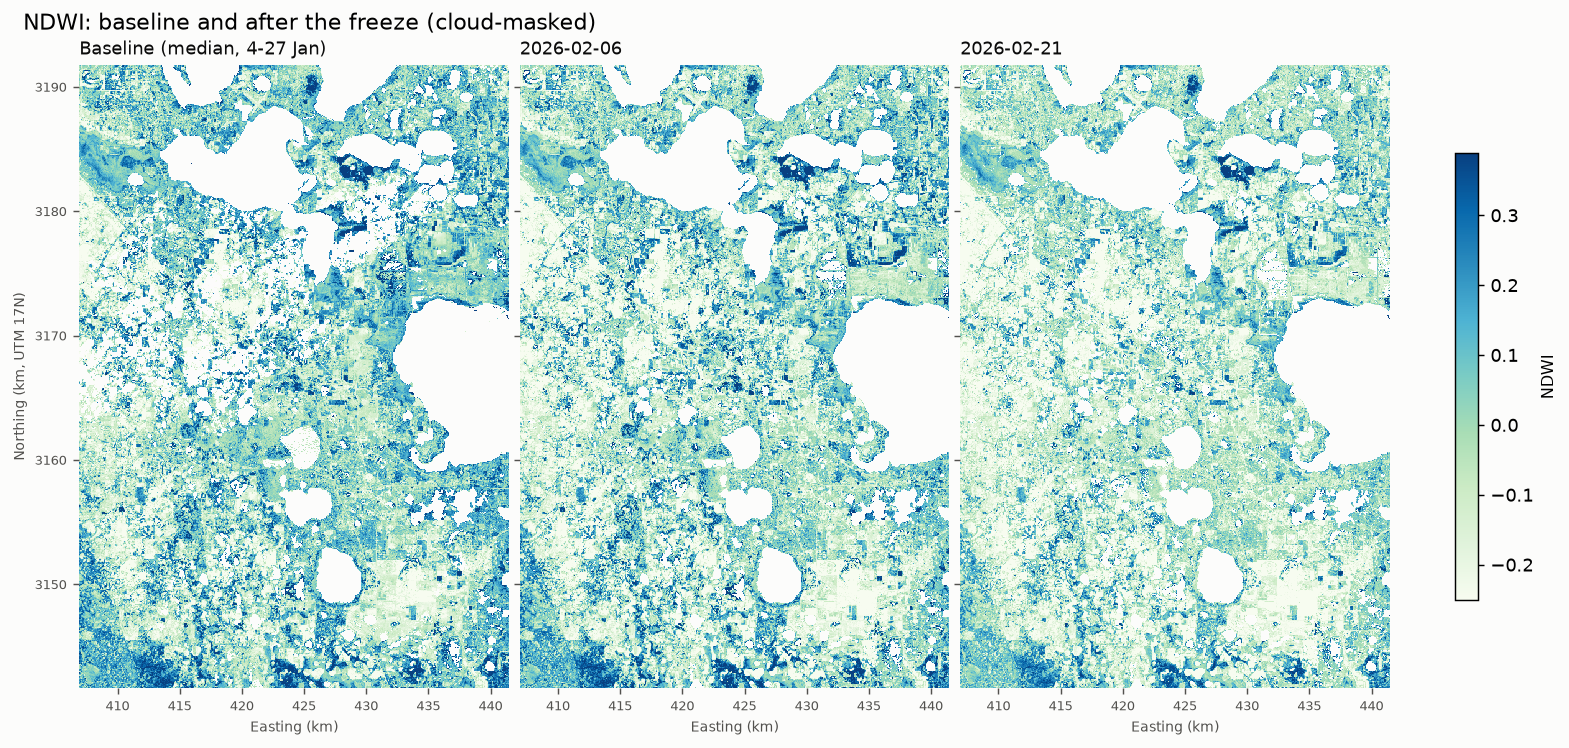
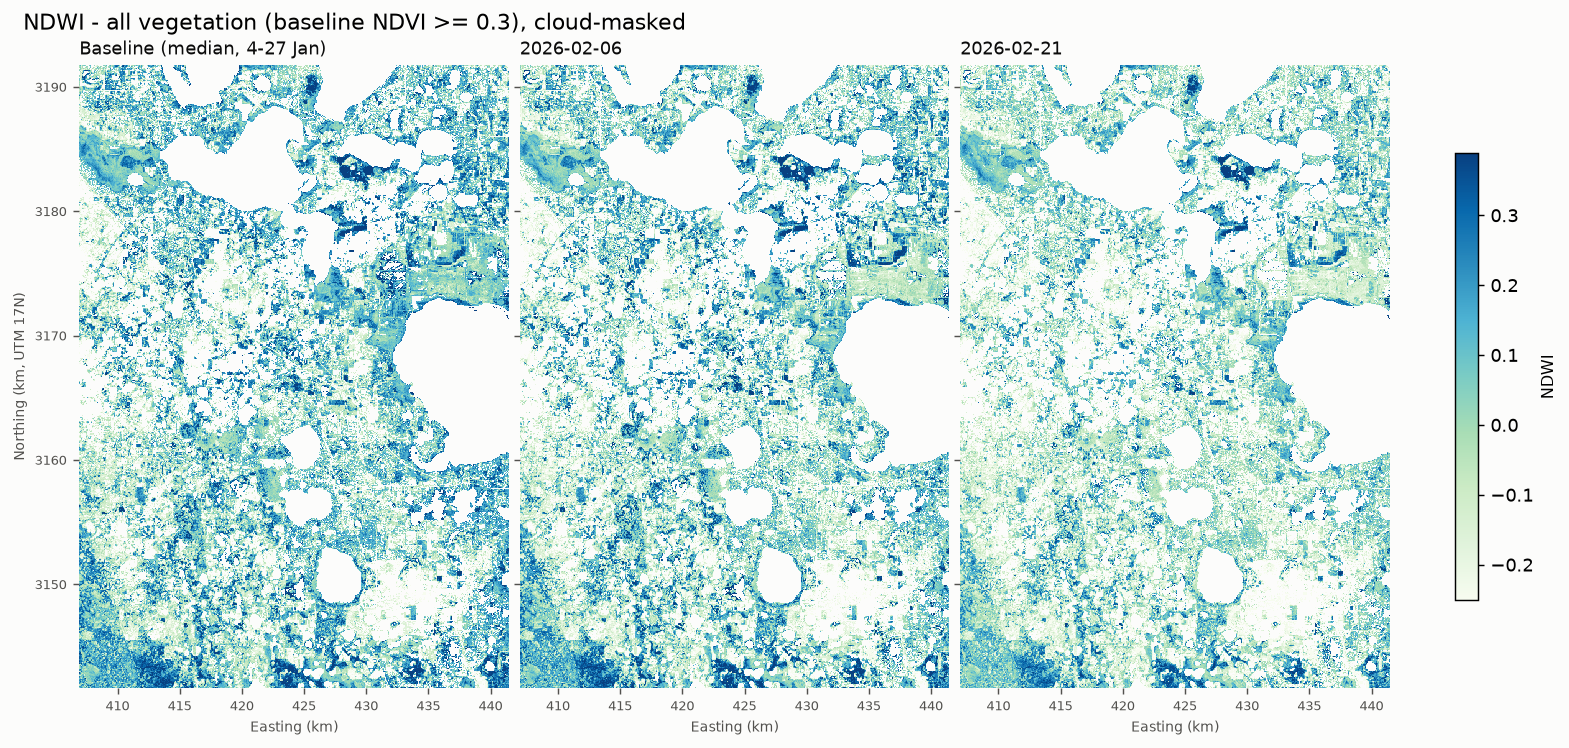
Label figures as citrus only or all vegetation; add citrus location and main-area damage maps
- citrus_location.png: CDL citrus outlined in black on the 6 Feb true-colour image,
  whole area and the main citrus area
- damage_citrus_main_area.png: citrus-only NDVI damage classes in the main citrus
  area on both dates, kill zones outlined
- Index maps now show vegetated pixels only, matching the change maps
- Figure titles and README captions say citrus only / all vegetation

diff --git a/src/plots.py b/src/plots.py
@@ -15,6 +15,10 @@ import pandas as pd  # noqa: E402
 from matplotlib.colors import ListedColormap  # noqa: E402
 from matplotlib.patches import Patch  # noqa: E402
 from matplotlib.lines import Line2D  # noqa: E402
+import geopandas as gpd  # noqa: E402
+from rasterio.features import shapes  # noqa: E402
+from scipy import ndimage  # noqa: E402
+from shapely.geometry import shape  # noqa: E402
 
 from src.damage import NODATA  # noqa: E402
 
@@ -86,7 +90,7 @@ def timeseries(ts, cfg, folder):
     leg.legend(handles=handles, loc="center left", frameon=False, fontsize=9)
     for ax in axes[len(names) + 1:]:
         ax.axis("off")
-    fig.suptitle("Median index value per clear date (vegetated pixels)", x=0.01, ha="left",
+    fig.suptitle("Median index value per clear date - citrus vs all other vegetation", x=0.01, ha="left",
                  fontsize=12, color=c["text"])
     fig.tight_layout()
     return _save(fig, folder, "timeseries_indices", cfg)
@@ -102,7 +106,8 @@ def index_maps(name, panels, vmin, vmax, cfg, folder):
                        interpolation="nearest")
     cb = fig.colorbar(im, ax=axes, shrink=0.7)
     cb.set_label(name, fontsize=9)
-    fig.suptitle(f"{name}: baseline and after the freeze (cloud-masked)", x=0.01, ha="left", fontsize=12)
+    fig.suptitle(f"{name} - all vegetation (baseline NDVI >= 0.3), cloud-masked", x=0.01, ha="left",
+                 fontsize=12)
     return _save(fig, folder, f"map_{name.lower()}", cfg)
 
 
@@ -114,7 +119,8 @@ def change_maps(name, panels, lim, cfg, folder):
         im = ax.imshow(arr, extent=ext, cmap="RdBu", vmin=-lim, vmax=lim, interpolation="nearest")
     cb = fig.colorbar(im, ax=axes, shrink=0.7)
     cb.set_label(f"{name} change", fontsize=9)
-    fig.suptitle(f"{name} change vs baseline (vegetated pixels)", x=0.01, ha="left", fontsize=12)
+    fig.suptitle(f"{name} change vs baseline - all vegetation (red = decrease)", x=0.01, ha="left",
+                 fontsize=12)
     return _save(fig, folder, f"change_{name.lower()}", cfg)
 
 
@@ -172,5 +178,99 @@ def damage_map(damages, citrus, land, ids, kz, cfg, folder):
               [Patch(facecolor="none", edgecolor=c["kill_zone"], lw=1.5, label="kill zone"),
                Patch(color=c["land"], label="other land")]
     fig.legend(handles=handles, loc="lower center", ncol=6, frameon=False, fontsize=9)
+    fig.suptitle("NDVI damage classes - citrus only (whole area, and close-up of the largest kill zone)",
+                 x=0.01, ha="left", fontsize=12, color=c["text"])
     fig.subplots_adjust(bottom=0.12, wspace=0.15)
     return _save(fig, folder, "damage_ndvi_killzones", cfg)
+
+
+# ---------- where the citrus is, and citrus damage in the main citrus area ----------
+def main_citrus_window(citrus, cfg):
+    """Square window (zoom_citrus_km wide) centred where citrus is densest. Returns .sel() slices."""
+    res = cfg["run"]["res"]
+    size = max(1, int(cfg["plots"]["zoom_citrus_km"] * 1000 / res))
+    density = ndimage.uniform_filter(citrus.values.astype("float32"), size=size, mode="constant")
+    iy, ix = np.unravel_index(np.argmax(density), density.shape)
+    cx, cy, half = float(citrus.x[ix]), float(citrus.y[iy]), size * res / 2
+    return dict(x=slice(cx - half, cx + half), y=slice(cy + half, cy - half))
+
+
+def _outlines(mask, cfg):
+    """Outlines of a boolean raster (e.g. the citrus mask) as polygons in km."""
+    v = mask.values.astype("uint8")
+    geoms = [shape(g) for g, _ in shapes(v, mask=v > 0, transform=mask.odc.geobox.affine)]
+    g = gpd.GeoSeries(geoms, crs=cfg["run"]["crs"])
+    return g.scale(1e-3, 1e-3, origin=(0, 0))                    # m -> km
+
+
+def _rgb(bands, cfg):
+    """True-colour RGB array (contrast-stretched), NaN shown as white."""
+    rgb = np.dstack([bands[b] for b in ("red", "green", "blue")])
+    lo, hi = np.nanpercentile(rgb, cfg["plots"]["rgb_stretch"])
+    return np.nan_to_num(np.clip((rgb - lo) / (hi - lo), 0, 1), nan=1.0)
+
+
+def citrus_location(rgb_bands, citrus, win, cfg, folder):
+    """True-colour image with the CDL citrus mask outlined in black: whole area and main citrus area."""
+    c = cfg["plots"]["colors"]
+    fig, axes = plt.subplots(1, 2, figsize=(12, 6.6), facecolor=c["surface"],
+                             gridspec_kw={"width_ratios": [1, 1.25]})
+    # whole area (downsampled)
+    small = {b: thumb(da, cfg)[0] for b, da in rgb_bands.items()}
+    ext = thumb(rgb_bands["red"], cfg)[1]
+    _style(axes[0], cfg, "Whole study area")
+    axes[0].imshow(_rgb(small, cfg), extent=ext, interpolation="nearest")
+    _outlines(citrus, cfg).boundary.plot(ax=axes[0], color=c["citrus_outline"], lw=0.4)
+    x0, x1, y0, y1 = (win["x"].start / 1e3, win["x"].stop / 1e3, win["y"].stop / 1e3, win["y"].start / 1e3)
+    axes[0].plot([x0, x1, x1, x0, x0], [y0, y0, y1, y1, y0], color=c["zoom_box"], lw=1.5)
+    axes[0].set_xlim(ext[0], ext[1])
+    axes[0].set_ylim(ext[2], ext[3])
+    # main citrus area (full resolution)
+    part = {b: da.sel(**win) for b, da in rgb_bands.items()}
+    ext2 = thumb(part["red"], cfg)[1]
+    _style(axes[1], cfg, "Main citrus area (box on the left)")
+    axes[1].imshow(_rgb({b: thumb(da, cfg)[0] for b, da in part.items()}, cfg), extent=ext2,
+                   interpolation="nearest")
+    _outlines(citrus.sel(**win), cfg).boundary.plot(ax=axes[1], color=c["citrus_outline"], lw=0.8)
+    axes[1].set_xlim(ext2[0], ext2[1])
+    axes[1].set_ylim(ext2[2], ext2[3])
+    for ax in axes:
+        ax.set_xlabel("Easting (km, UTM 17N)", fontsize=8, color=c["muted"])
+        ax.set_ylabel("Northing (km)", fontsize=8, color=c["muted"])
+    handles = [Patch(facecolor="none", edgecolor=c["citrus_outline"], lw=1.2, label="citrus (USDA CDL 2025)"),
+               Patch(facecolor="none", edgecolor=c["zoom_box"], lw=1.5, label="main citrus area")]
+    fig.legend(handles=handles, loc="lower center", ncol=2, frameon=False, fontsize=9)
+    fig.suptitle(f"Where the citrus is - true colour, {cfg['plots']['rgb_date']}", x=0.01, ha="left",
+                 fontsize=12, color=c["text"])
+    fig.subplots_adjust(bottom=0.1, wspace=0.18)
+    return _save(fig, folder, "citrus_location", cfg)
+
+
+def damage_citrus_zoom(damages, citrus, land, kz, win, cfg, folder):
+    """Citrus-only damage classes in the main citrus area, both dates, kill zones outlined."""
+    c = cfg["plots"]["colors"]
+    fig, axes = plt.subplots(1, 2, figsize=(12, 6.4), sharey=True, facecolor=c["surface"])
+    for ax, (date, dmg) in zip(axes, damages.items()):
+        d = dmg.sel(**win)
+        codes, cmap = _damage_rgb(d.values, citrus.sel(**win).values, land.sel(**win).values, cfg)
+        arr, ext = thumb(d.copy(data=codes), cfg)
+        _style(ax, cfg, date)
+        ax.imshow(arr, extent=ext, cmap=cmap, vmin=-0.5, vmax=5.5, interpolation="nearest")
+        if len(kz):
+            g = kz.copy()
+            g["geometry"] = g.geometry.scale(1e-3, 1e-3, origin=(0, 0))
+            g.boundary.plot(ax=ax, color=c["kill_zone"], lw=0.8)
+        ax.set_xlim(ext[0], ext[1])
+        ax.set_ylim(ext[2], ext[3])
+        ax.set_xlabel("Easting (km, UTM 17N)", fontsize=8, color=c["muted"])
+        ax.set_ylabel("")
+    axes[0].set_ylabel("Northing (km)", fontsize=8, color=c["muted"])
+    handles = [Patch(color=c["citrus_ok"], label="citrus, no damage")] + \
+              [Patch(color=col, label=lab) for col, lab in zip(c["damage"], ["mild", "moderate", "severe"])] + \
+              [Patch(facecolor="none", edgecolor=c["kill_zone"], lw=1.5, label="kill zone"),
+               Patch(color=c["land"], label="not citrus / not assessed")]
+    fig.legend(handles=handles, loc="lower center", ncol=6, frameon=False, fontsize=9)
+    fig.suptitle("NDVI damage classes - citrus only, main citrus area", x=0.01, ha="left",
+                 fontsize=12, color=c["text"])
+    fig.subplots_adjust(bottom=0.12, wspace=0.08)
+    return _save(fig, folder, "damage_citrus_main_area", cfg)

diff --git a/run.py b/run.py
@@ -96,13 +96,13 @@ def main(config="config.yaml", test=False):
                # robust SD (1.4826 x median absolute deviation): not inflated by the few extreme
                # pixels that ratio indices such as EVI and MCARI produce
                "noise_sd": round(1.4826 * float(np.median(np.abs(noise - np.median(noise)))), 4)}
-        maps, changes = {"Baseline (median, 4-27 Jan)": plots.thumb(base, cfg)}, {}
+        maps, changes = {"Baseline (median, 4-27 Jan)": plots.thumb(base.where(veg), cfg)}, {}
         for date in (early, late):
             val = index_on(date, name)
             ch = (val - base).where(veg)
             v = ch.values[groups["citrus"]]
             row[f"median_change_{date}"] = round(float(np.nanmedian(v)), 3)
-            maps[date] = plots.thumb(val, cfg)
+            maps[date] = plots.thumb(val.where(veg), cfg)
             changes[date] = plots.thumb(ch, cfg)
             if name == "NDVI":
                 ndvi_change[date] = ch
@@ -145,7 +145,14 @@ def main(config="config.yaml", test=False):
     plots.damage_map(damages, citrus, land, ids, kz, cfg, r["figures"])
     print(head.to_string(index=False))
 
-    step("7. GeoTIFFs")
+    step("7. Citrus location and citrus-only damage in the main citrus area")
+    win = plots.main_citrus_window(citrus, cfg)
+    rgb, _ = data.load_date(cfg, cfg["plots"]["rgb_date"], ["red", "green", "blue"], mask=False)
+    plots.citrus_location(rgb, citrus, win, cfg, r["figures"])
+    plots.damage_citrus_zoom(damages, citrus, land, kz, win, cfg, r["figures"])
+    del rgb
+
+    step("8. GeoTIFFs")
     save_tif(base_ndvi, r["out"] / "rasters" / "ndvi_baseline.tif")
     save_tif(base_count, r["out"] / "rasters" / "baseline_clear_dates.tif")
     for x in (early, late):

diff --git a/src/data.py b/src/data.py
@@ -106,8 +106,9 @@ def boa_offset(red, scl, cfg):
     return s2["boa_offset"] if below < s2["offset_check_max_below"] else 0
 
 
-def load_date(cfg, date, bands):
-    """Reflectance (float32) of `bands` for one date, NaN where the pixel is not clear.
+def load_date(cfg, date, bands, mask=True):
+    """Reflectance (float32) of `bands` for one date, NaN where the pixel is not clear
+    (mask=False keeps every pixel, e.g. for a true-colour picture).
 
     Clear = SCL vegetation or bare soil, and valid red + nir.
     Also returns the share of pixels with data that are clear.
@@ -120,4 +121,4 @@ def load_date(cfg, date, bands):
             for b in dn if b != "scl"}
     clear = dn["scl"].isin(s2["clear_scl_classes"]) & ((refl["nir"] + refl["red"]) > 0)
     clear_pct = 100 * float(clear.sum()) / max(int((dn["scl"] > 0).sum()), 1)
-    return {b: refl[b].where(clear) for b in bands}, clear_pct
+    return {b: refl[b].where(clear) if mask else refl[b] for b in bands}, clear_pct

diff --git a/README.md b/README.md
@@ -43,7 +43,17 @@ The -0.10 threshold sits above normal date-to-date variation between two pre-fre
 
 ## Results (10 m)
 
-| | |
+### Where the citrus is
+
+![Where the citrus is: CDL citrus outlined in black on true colour, 6 Feb 2026](figures/citrus_location.png)
+
+*Citrus only: USDA CDL 2025 citrus outlined in black on the true-colour image of 6 Feb.
+Most citrus in the study area is one grove block in the south-west (right panel); the
+small scattered squares are single CDL pixels, many of them probably misclassified.*
+
+### Damage (citrus only)
+
+| Citrus only | |
 |---|---|
 | Citrus in the area (CDL 2025) | 313.5 ha |
 | Citrus assessed (vegetated, cloud-free baseline) | 217.0 ha |
@@ -58,9 +68,17 @@ freeze-injured leaves often stay green for days to weeks before they dry out
 and drop. All six kill zones lie within about 2 km of each other in one grove area
 (around 28.43 N, 81.86 W).
 
-![Citrus damage classes and kill zones](figures/damage_ndvi_killzones.png)
+![Citrus-only damage classes in the main citrus area](figures/damage_citrus_main_area.png)
 
-### How much each index changed for citrus
+*Citrus only: NDVI damage classes in the main citrus area on 6 and 21 Feb, kill zones
+outlined in blue. Grey = not citrus, or citrus that could not be assessed.*
+
+![Citrus-only damage classes, whole area, and close-up of the largest kill zone](figures/damage_ndvi_killzones.png)
+
+*Citrus only: the same damage classes for the whole study area, and a close-up of the
+largest kill zone.*
+
+### How much each index changed (citrus only)
 
 Median change of citrus pixels vs the baseline. "Change / noise" divides the
 21 Feb change by the normal date-to-date variation of that index (robust SD of
@@ -79,12 +97,24 @@ canopy lost greenness, chlorophyll and leaf water, which is what freeze injury
 looks like. NDVI gives the clearest signal relative to its noise. MCARI shows
 no clear response.
 
-![Time series of all indices](figures/timeseries_indices.png)
+![Time series of all indices, citrus vs other vegetation](figures/timeseries_indices.png)
 
-![NDVI change](figures/change_ndvi.png)
+*Citrus vs all other vegetation: median of each index on every clear date, main freeze shaded.*
 
-Other figures in [`figures/`](figures): a map of each index on the baseline,
-6 Feb and 21 Feb (`map_*.png`) and the change of each index (`change_*.png`).
+![NDVI change, all vegetation](figures/change_ndvi.png)
+
+*All vegetation (baseline NDVI >= 0.3), not only citrus: NDVI change vs the baseline.
+Other vegetation also lost greenness after the freeze.*
+
+All figures in [`figures/`](figures):
+
+| Figure | Shows |
+|---|---|
+| `citrus_location.png` | citrus only (CDL outlines on true colour) |
+| `damage_citrus_main_area.png`, `damage_ndvi_killzones.png` | citrus only (NDVI damage classes, kill zones) |
+| `timeseries_indices.png` | citrus vs all other vegetation |
+| `map_<index>.png` | all vegetation: each index on the baseline, 6 Feb and 21 Feb |
+| `change_<index>.png` | all vegetation: change of each index vs the baseline |
 
 ## How to run
 
